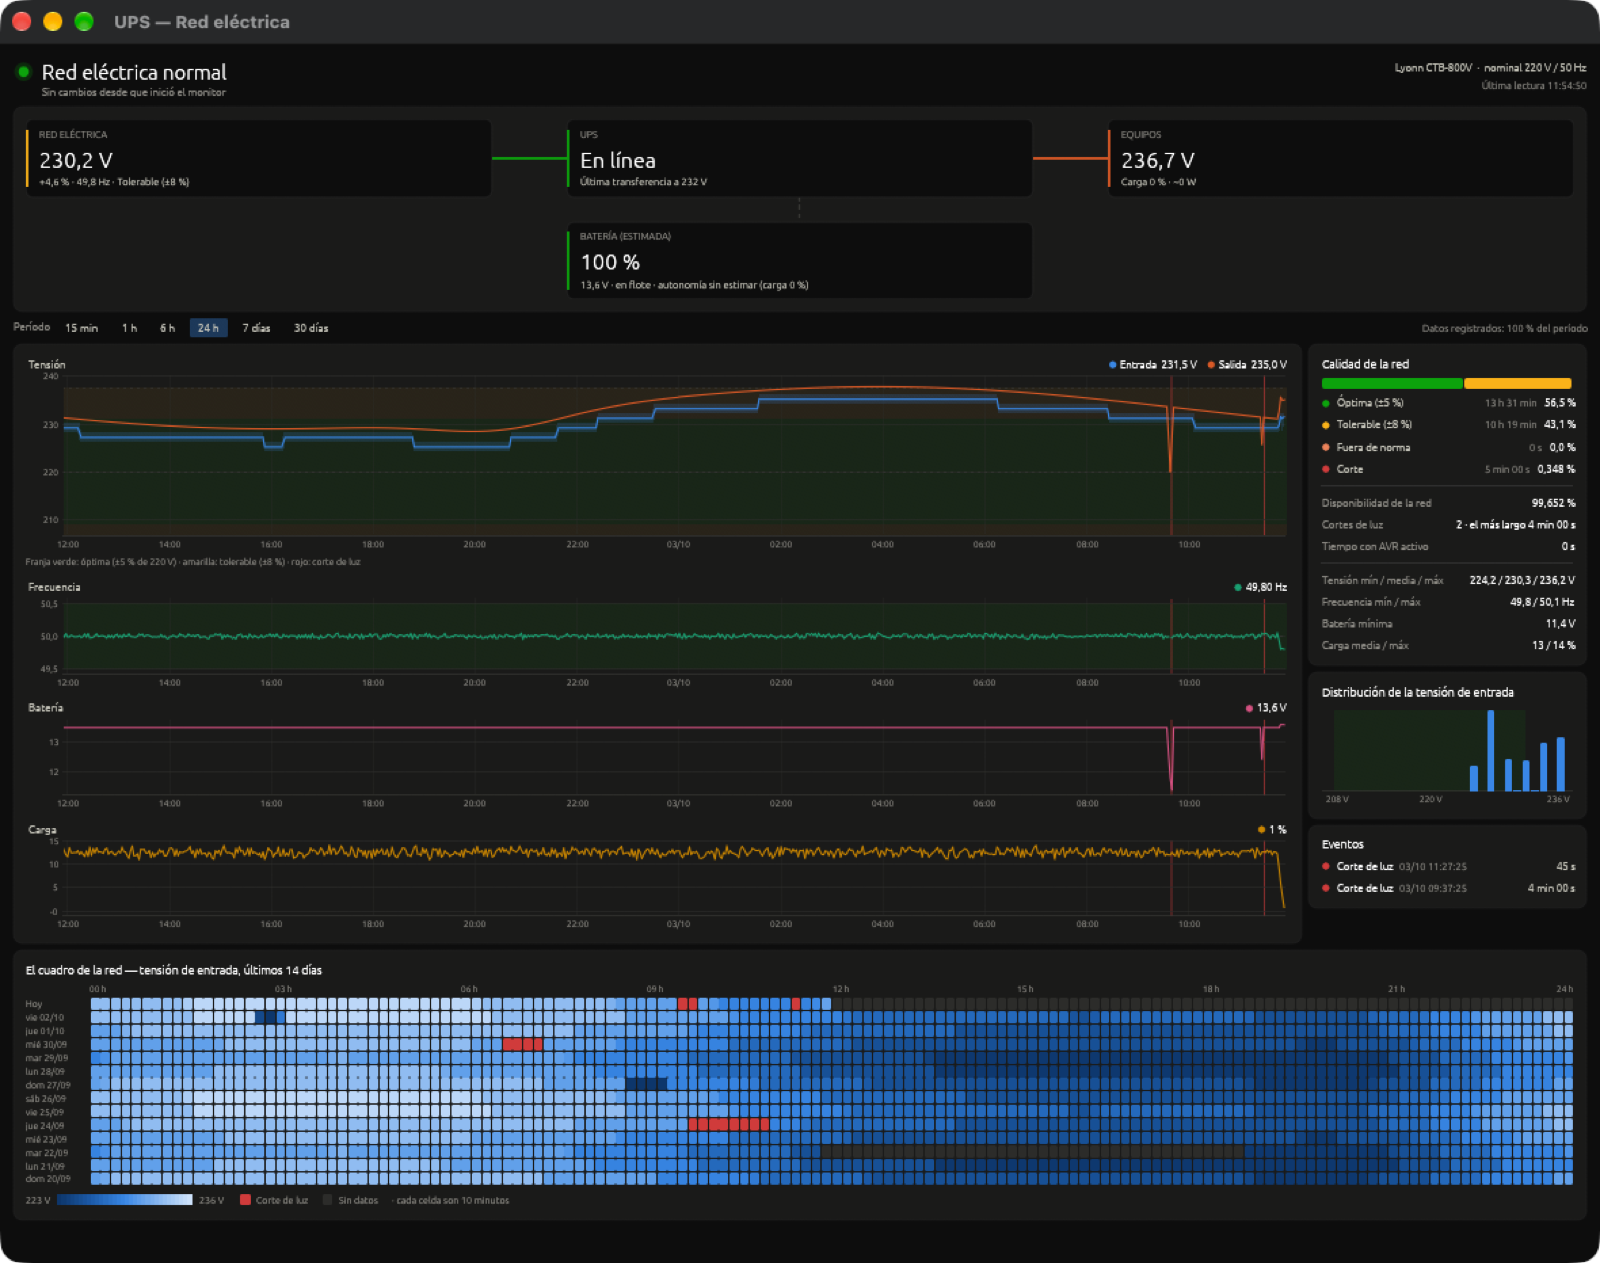
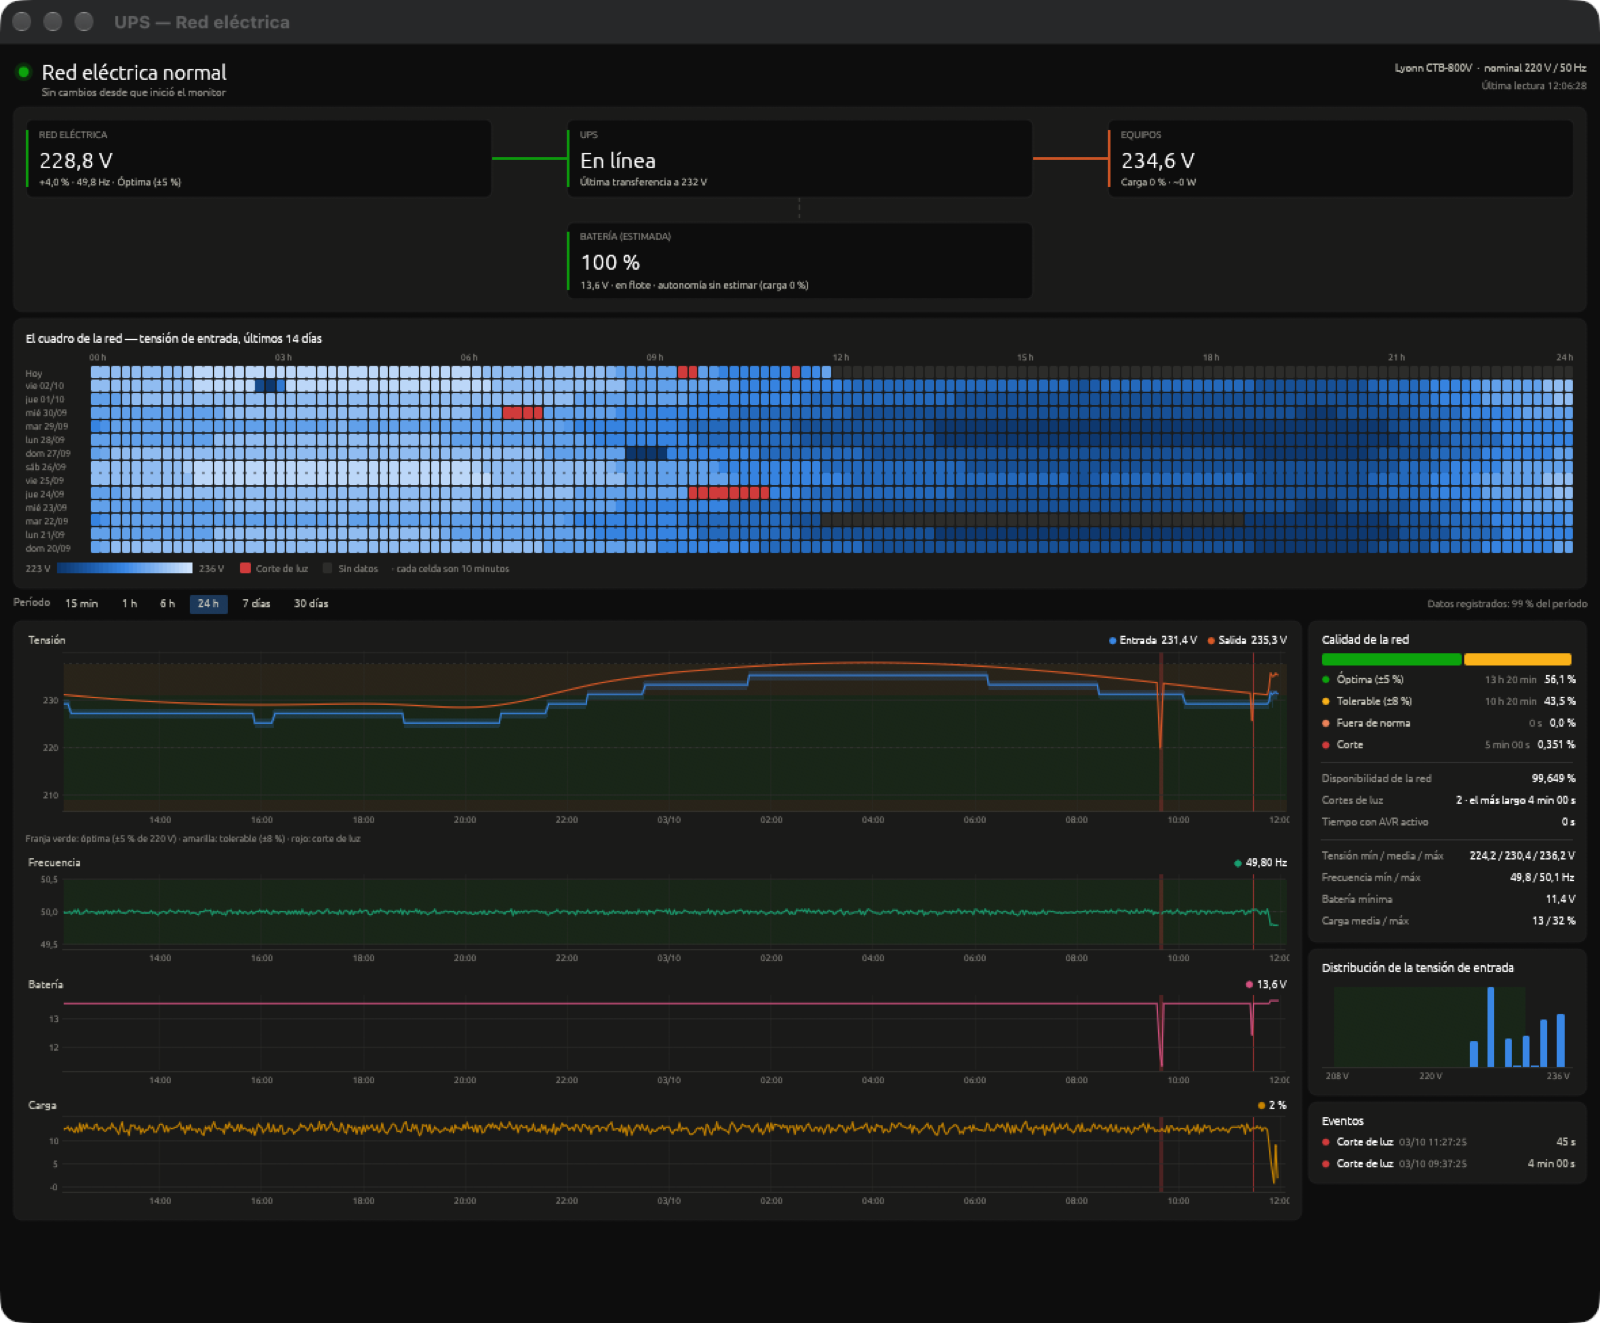
fix: keep x-axis labels inside the chart

diff --git a/src/chart.rs b/src/chart.rs
@@ -203,15 +203,18 @@ impl Chart<'_> {
                 plot.y_range(),
                 Stroke::new(1.0, theme::alpha(theme::GRID, 140)),
             );
-            let midnight = (t + offset).rem_euclid(86_400) == 0;
-            let label = format_ts(t, if midnight { "%d/%m" } else { "%H:%M" });
-            painter.text(
-                pos2(x, plot.bottom() + 4.0),
-                Align2::CENTER_TOP,
-                label,
-                font(10.5),
-                theme::MUTED,
-            );
+            // Una etiqueta pegada al borde derecho quedaría cortada.
+            if x <= plot.right() - 16.0 {
+                let midnight = (t + offset).rem_euclid(86_400) == 0;
+                let label = format_ts(t, if midnight { "%d/%m" } else { "%H:%M" });
+                painter.text(
+                    pos2(x, plot.bottom() + 4.0),
+                    Align2::CENTER_TOP,
+                    label,
+                    font(10.5),
+                    theme::MUTED,
+                );
+            }
             t += x_step;
         }
         painter.hline(plot.x_range(), plot.bottom(), Stroke::new(1.0, theme::AXIS));
